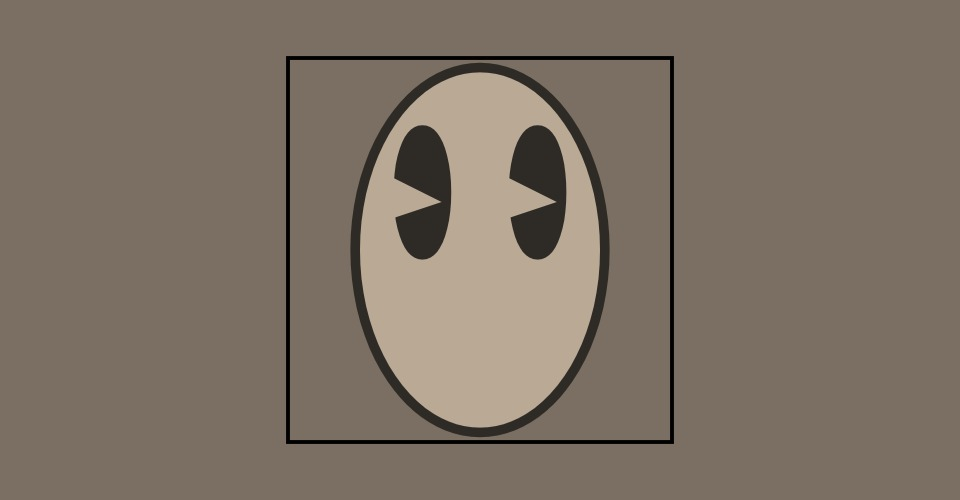
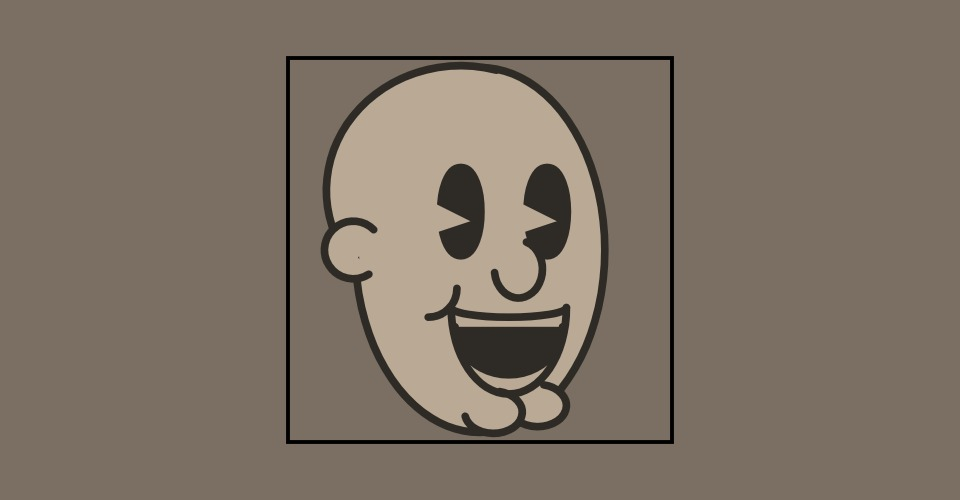
seee read.me

diff --git a/face_code.js b/face_code.js
@@ -15,6 +15,8 @@
  */
 function AdamsVintageFellas(tilt_value, eye_value, mouth_value){
 
+  
+
   let LightBeige =  color ('#BAA995')
   let DarkBeige = color ('#7A6F62')
   let MustyBrown = color ('#2E2A25')
@@ -39,25 +41,49 @@ fill(DarkBeige_const)
 
  
 
-  strokeWeight(.5);
+  strokeWeight(.4);
   stroke(MustyBrown_const);
   fill(LightBeige_const);
   
   ellipse(0,0, 13, 19) // face
+
+  arc(-1,-3.1, 14, 13,2.566 ,5); // head top
+
+  arc(-6.6, 0, 3, 3, 1,5.5); // ear 
+
+  arc(3.1, 8.1, 5, 2.7, 5,3,OPEN); // chin right
+  arc(1.2, 9, 5, 2, 5,3, OPEN); // chin left
+  
   
   strokeWeight(1);
   stroke(MustyBrown_const);
   fill(MustyBrown_const);
   
-  ellipse(-3,-3, 2, 6) // left eye
+  ellipse(-1,-2, 1.5, 4) // left eye
 
-  ellipse(3,-3, 2, 6) // right eye
+  ellipse(3.5,-2, 1.5, 4) // right eye
 
+
+  noFill();
+  strokeWeight(.4);
+
+  arc(1.5, 3, 6, 9, 0, PI, PI + QUARTER_PI); // mouth bottom
+  arc(1.5, 3, 6, 1, 0, PI, PI + QUARTER_PI); // mouth top
+
+  arc(-2.7, 2, 3, 3, 0, HALF_PI); // left cheek outline
+  arc(2, 1, 2.5, 3, 5,3); // Nose
+
+  
+
+  fill(MustyBrown_const);
+
+  arc(1.5, 4, 5.6, 5, 0, PI, PI + QUARTER_PI); // mouth darkness
   noStroke();
 
   fill(LightBeige_const); 
-  triangle(-5,-4, -5,-1.5,-2,-2.5,) // left indent
-  triangle(1,-4, 1,-1.5,4,-2.5,) // left indent
+  triangle(-3.5,-3, -3.5,-.5,-0.5,-1.5,) // left eye indent
+  triangle(1,-3, 1,-0.5,4,-1.5,) // right eye indent
+
 
   
 

diff --git a/README.md b/README.md
@@ -9,3 +9,12 @@
 
 Played around with the code, picked my colour pallette and have start4ee drawing my face. Lots to come
 
+04/ 04
+
+Started off experimenting with creating a ‘base face’. I think my lines are too thick, but I’m happy with the style that I’ve settled on. I think I will have to keep in mind how little change I can have on the eyes as I feel it could easily depart from the theme I’m looking for. I also really like the ¾ facial view, it features only one ear and provides a different angle then the standard front on view. Could also provide some interesting styles for hair.
+
+I’ve settled on these brown and beige colours to create a vintage effect for the faces. This could change over time, but I don't think I will depart from the theme of brown and beige. I am also conscious of changing the face colour as i don’t want to only represent white people as that isn't ethical.
+
+I might also change how big the face is in regard to the bounding box as it does not exactly leave much room for hair or hats, and might also be a tight squeeze when trying to pair the faces next to each other. I think I’ll just have to experiment with this later on as I go. 
+
+
